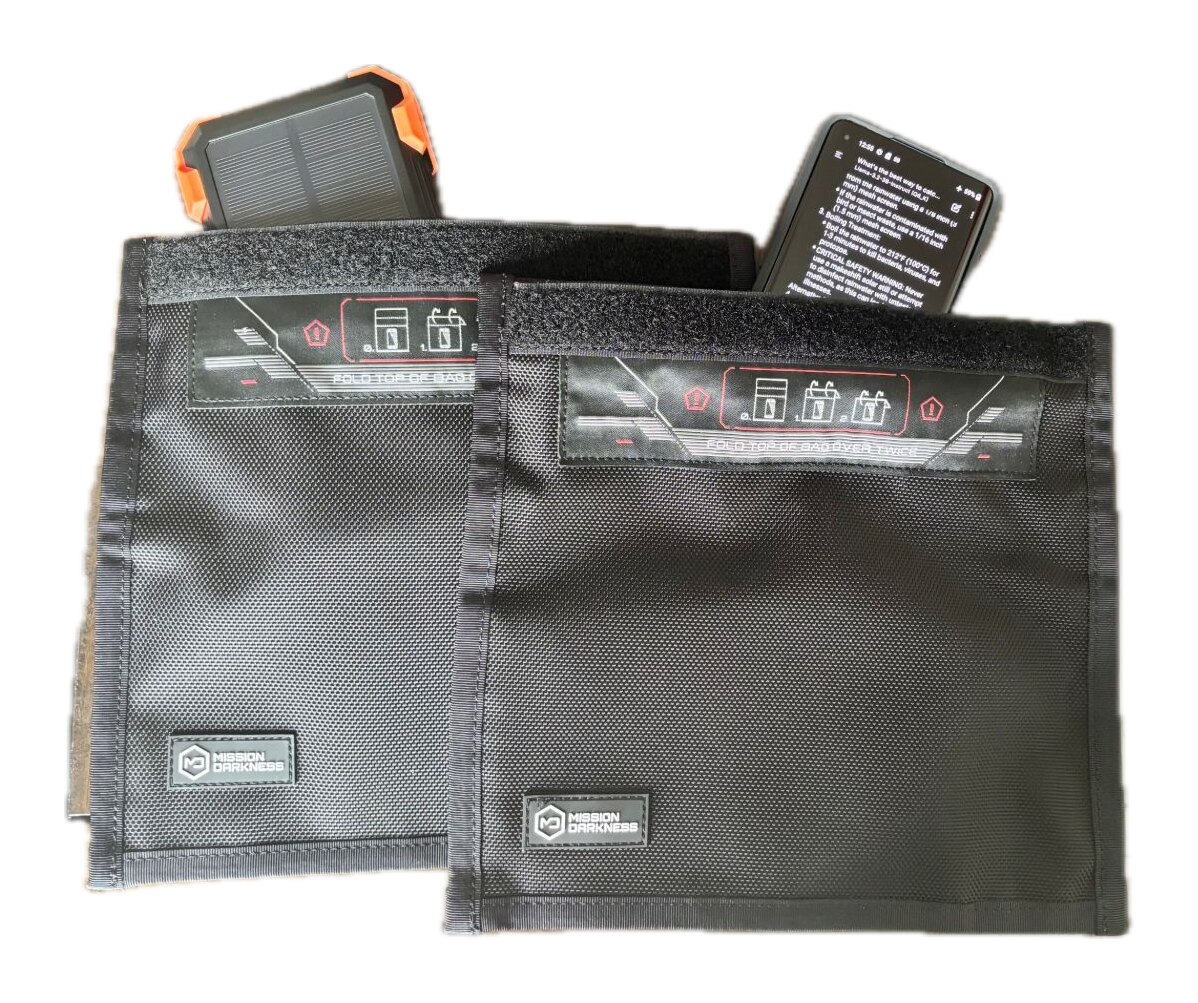
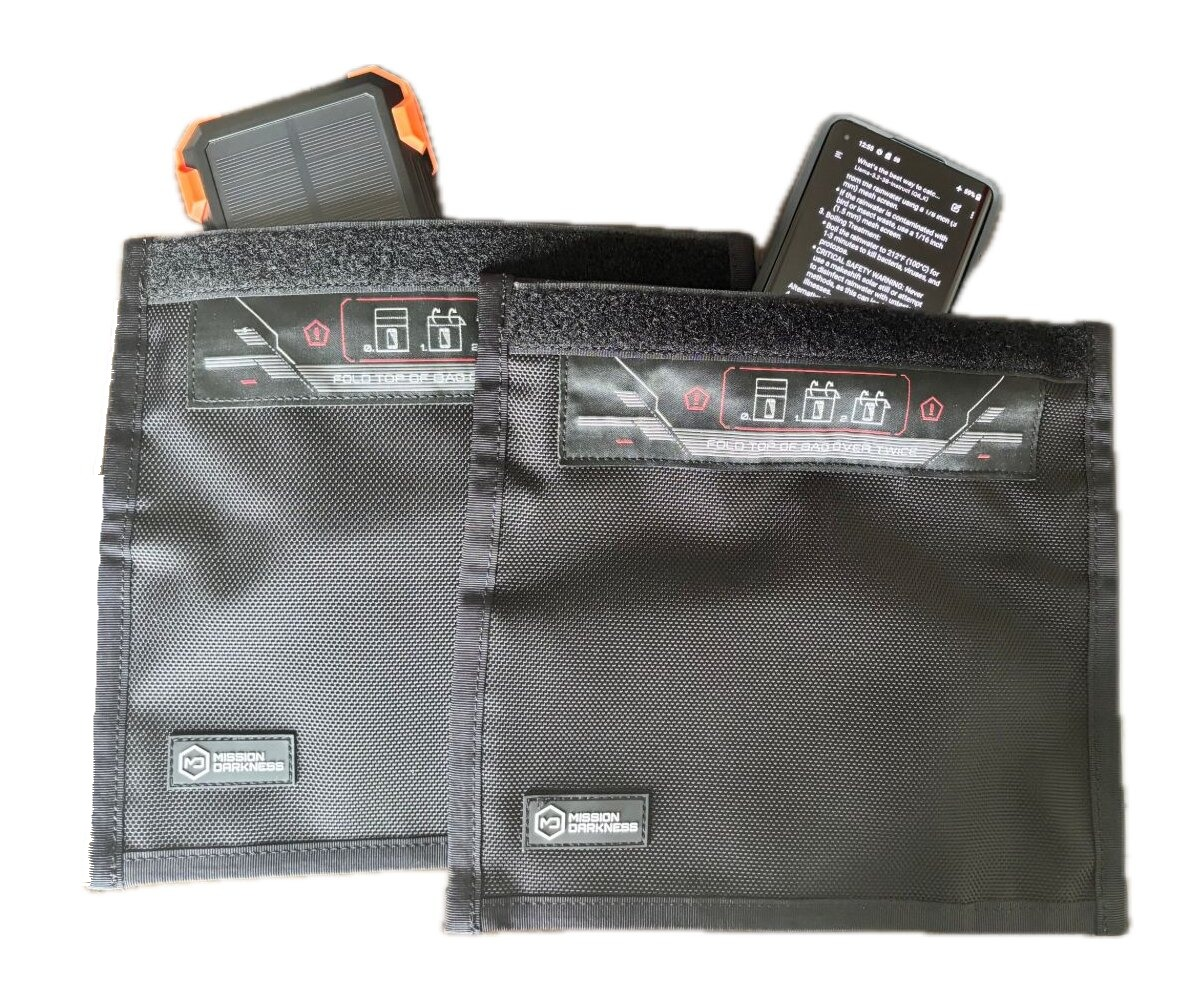
Faraday bag photo: table edge removed from the left of the left bag
Same file name, so the Merchant feed, Meta catalog and Product JSON-LD keep
their URL (no image re-crawl restart); the carousel and photo popup get
?v=20261117 so visitors see the new copy.

Changed region(s): [[0.0309, 0.4327, 0.0927, 0.8654]]

diff --git a/node.html b/node.html
@@ -1848,7 +1848,7 @@
                 <img class="thumb-img" src="images/carousel/usersguide/guide-home.jpg" alt="Survival Node User Guide app" data-full="images/carousel/usersguide/guide-home.jpg" data-key="usersguide" />
                 <img class="thumb-img" src="images/carousel/solarbattery/solar-battery-gen2.jpg" alt="Survival Node Gen 2 solar battery" data-full="images/carousel/solarbattery/solar-battery-gen2.jpg" data-key="solar" />
                 <img class="thumb-img" src="images/carousel/case/case3.jpg" alt="Hard Storage Case" data-full="images/carousel/case/case3.jpg" data-key="case" />
-                <img class="thumb-img" src="images/carousel/upgrades/faraday2.jpg" alt="Mission Darkness Faraday Bags" data-full="images/carousel/upgrades/faraday2.jpg" data-key="faraday" />
+                <img class="thumb-img" src="images/carousel/upgrades/faraday2.jpg?v=20261117" alt="Mission Darkness Faraday Bags" data-full="images/carousel/upgrades/faraday2.jpg?v=20261117" data-key="faraday" />
               </div>
               <div class="slide2-content">
                 <div class="item-photo-gallery" id="item-photo-gallery"></div>
@@ -2612,7 +2612,7 @@
         },
         faraday: {
           photos: [
-            'images/carousel/upgrades/faraday2.jpg',
+            'images/carousel/upgrades/faraday2.jpg?v=20261117',
             'images/carousel/upgrades/faraday3.png',
           ],
           label: 'Included with every kit',
